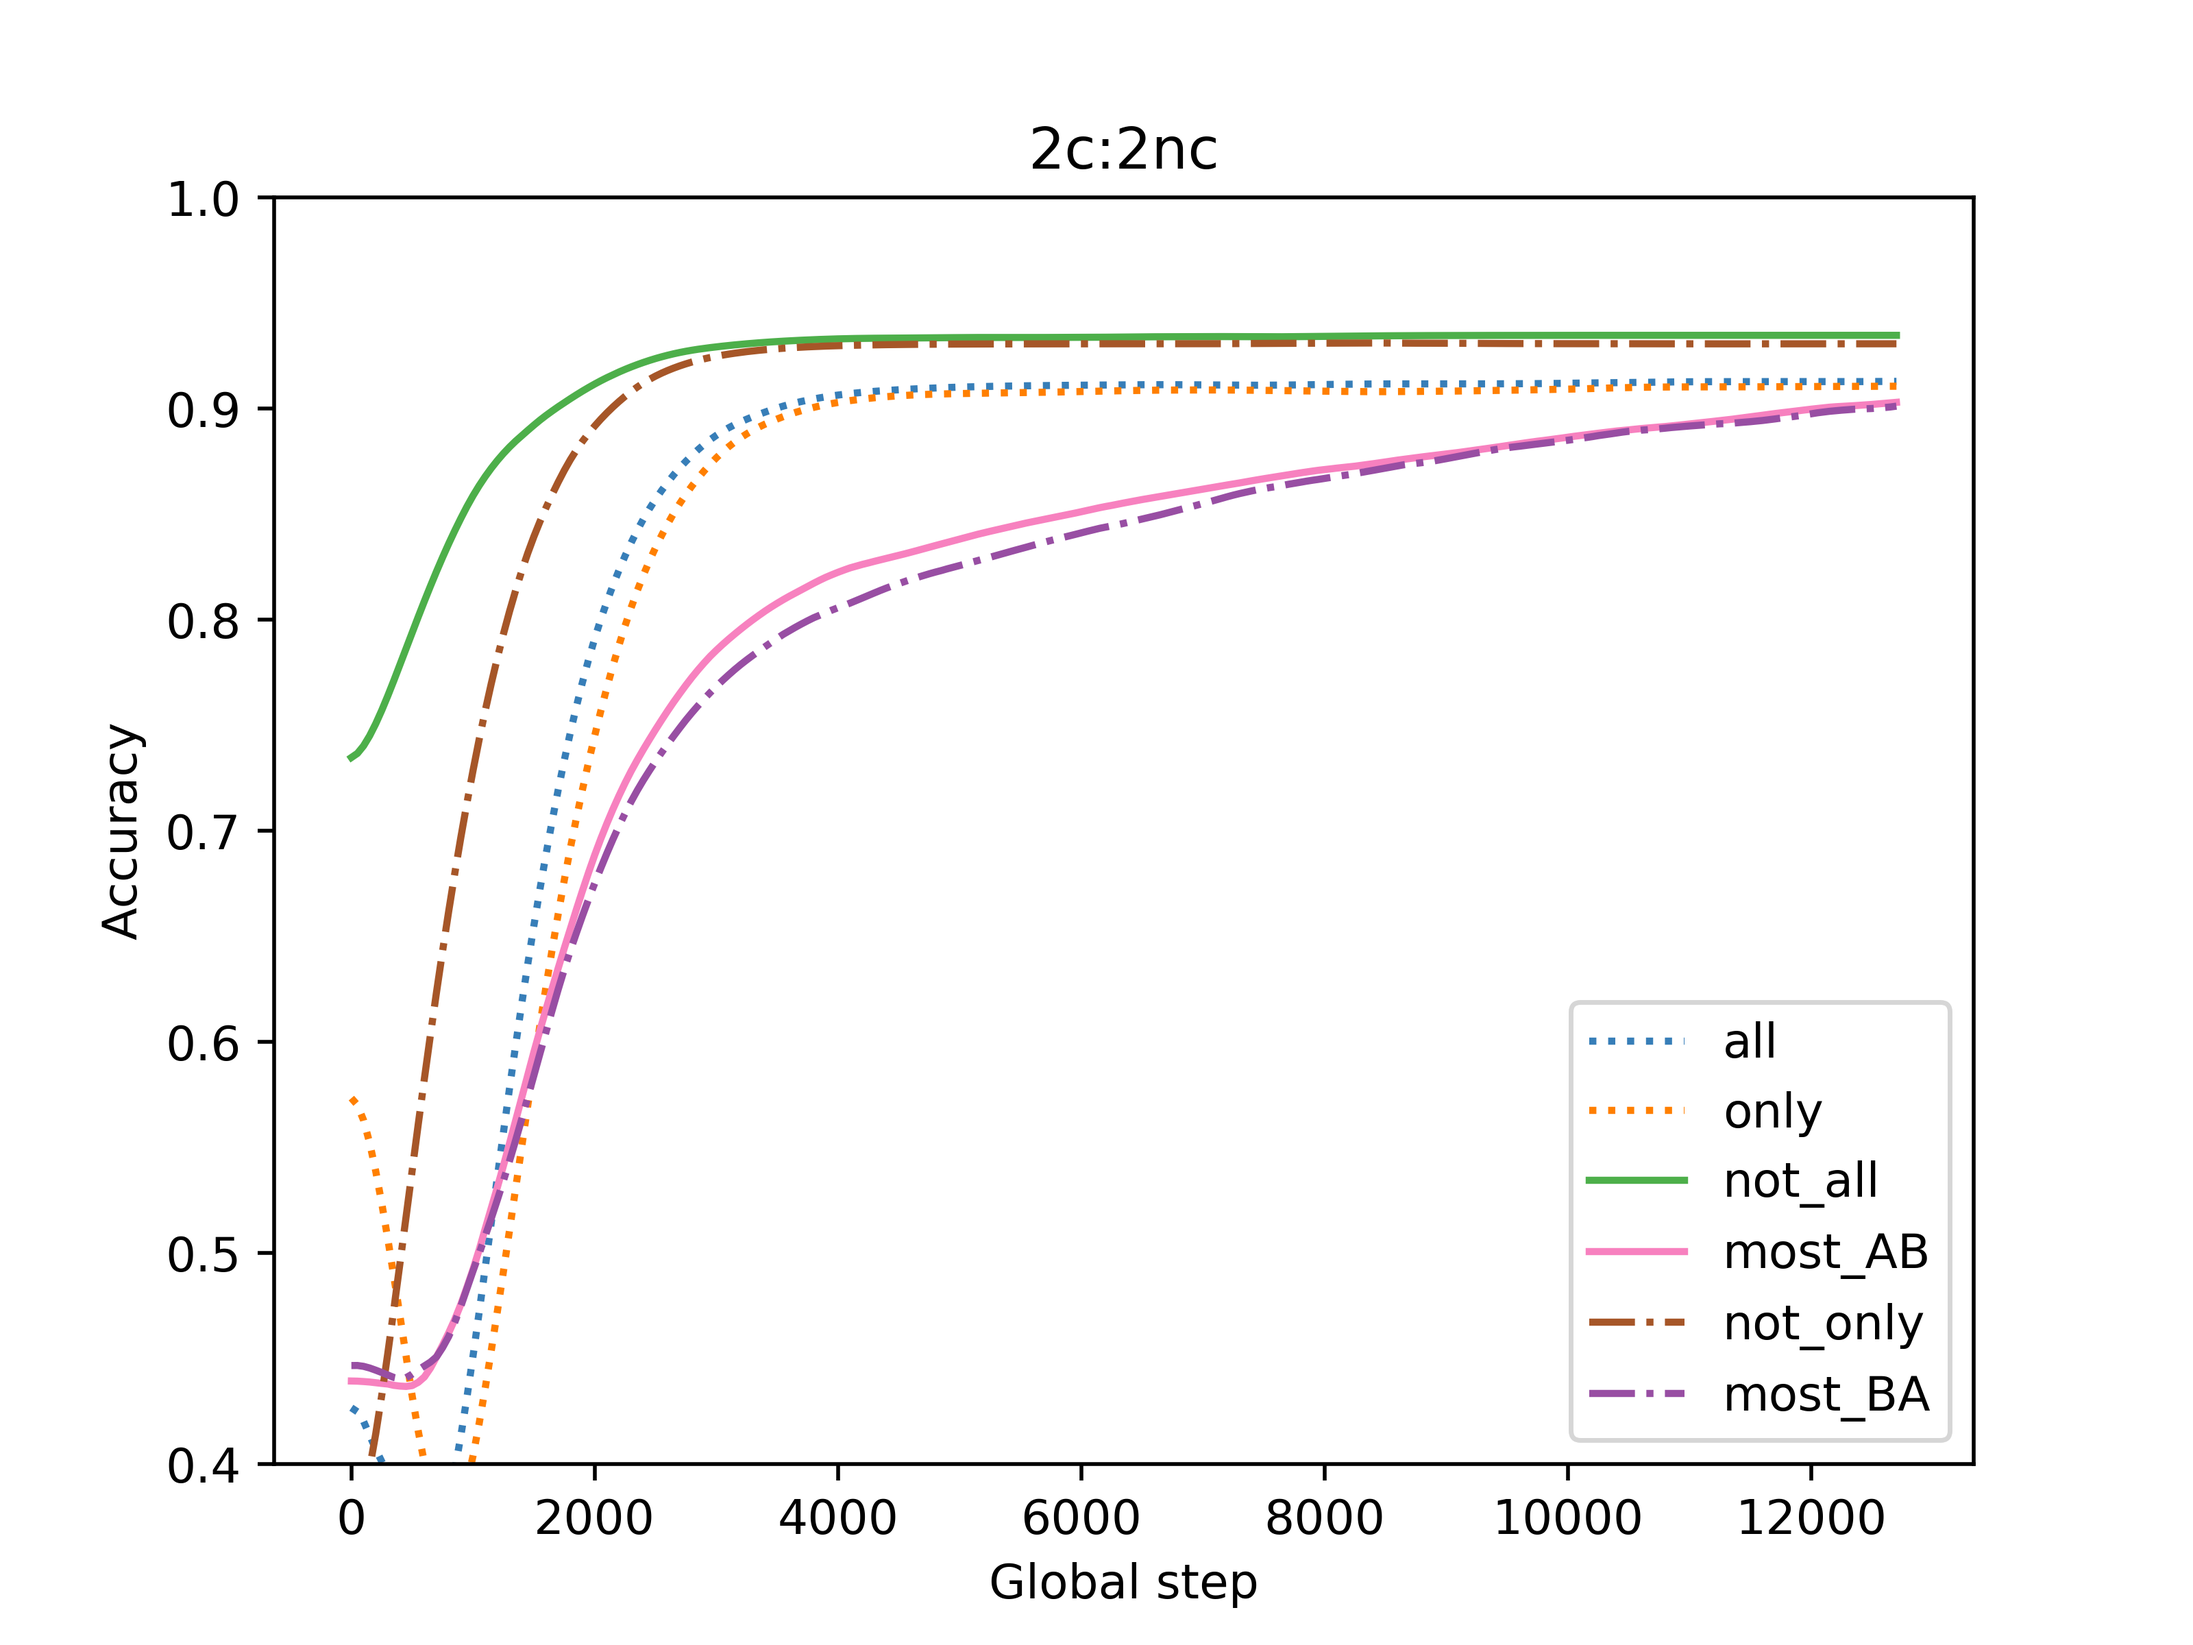
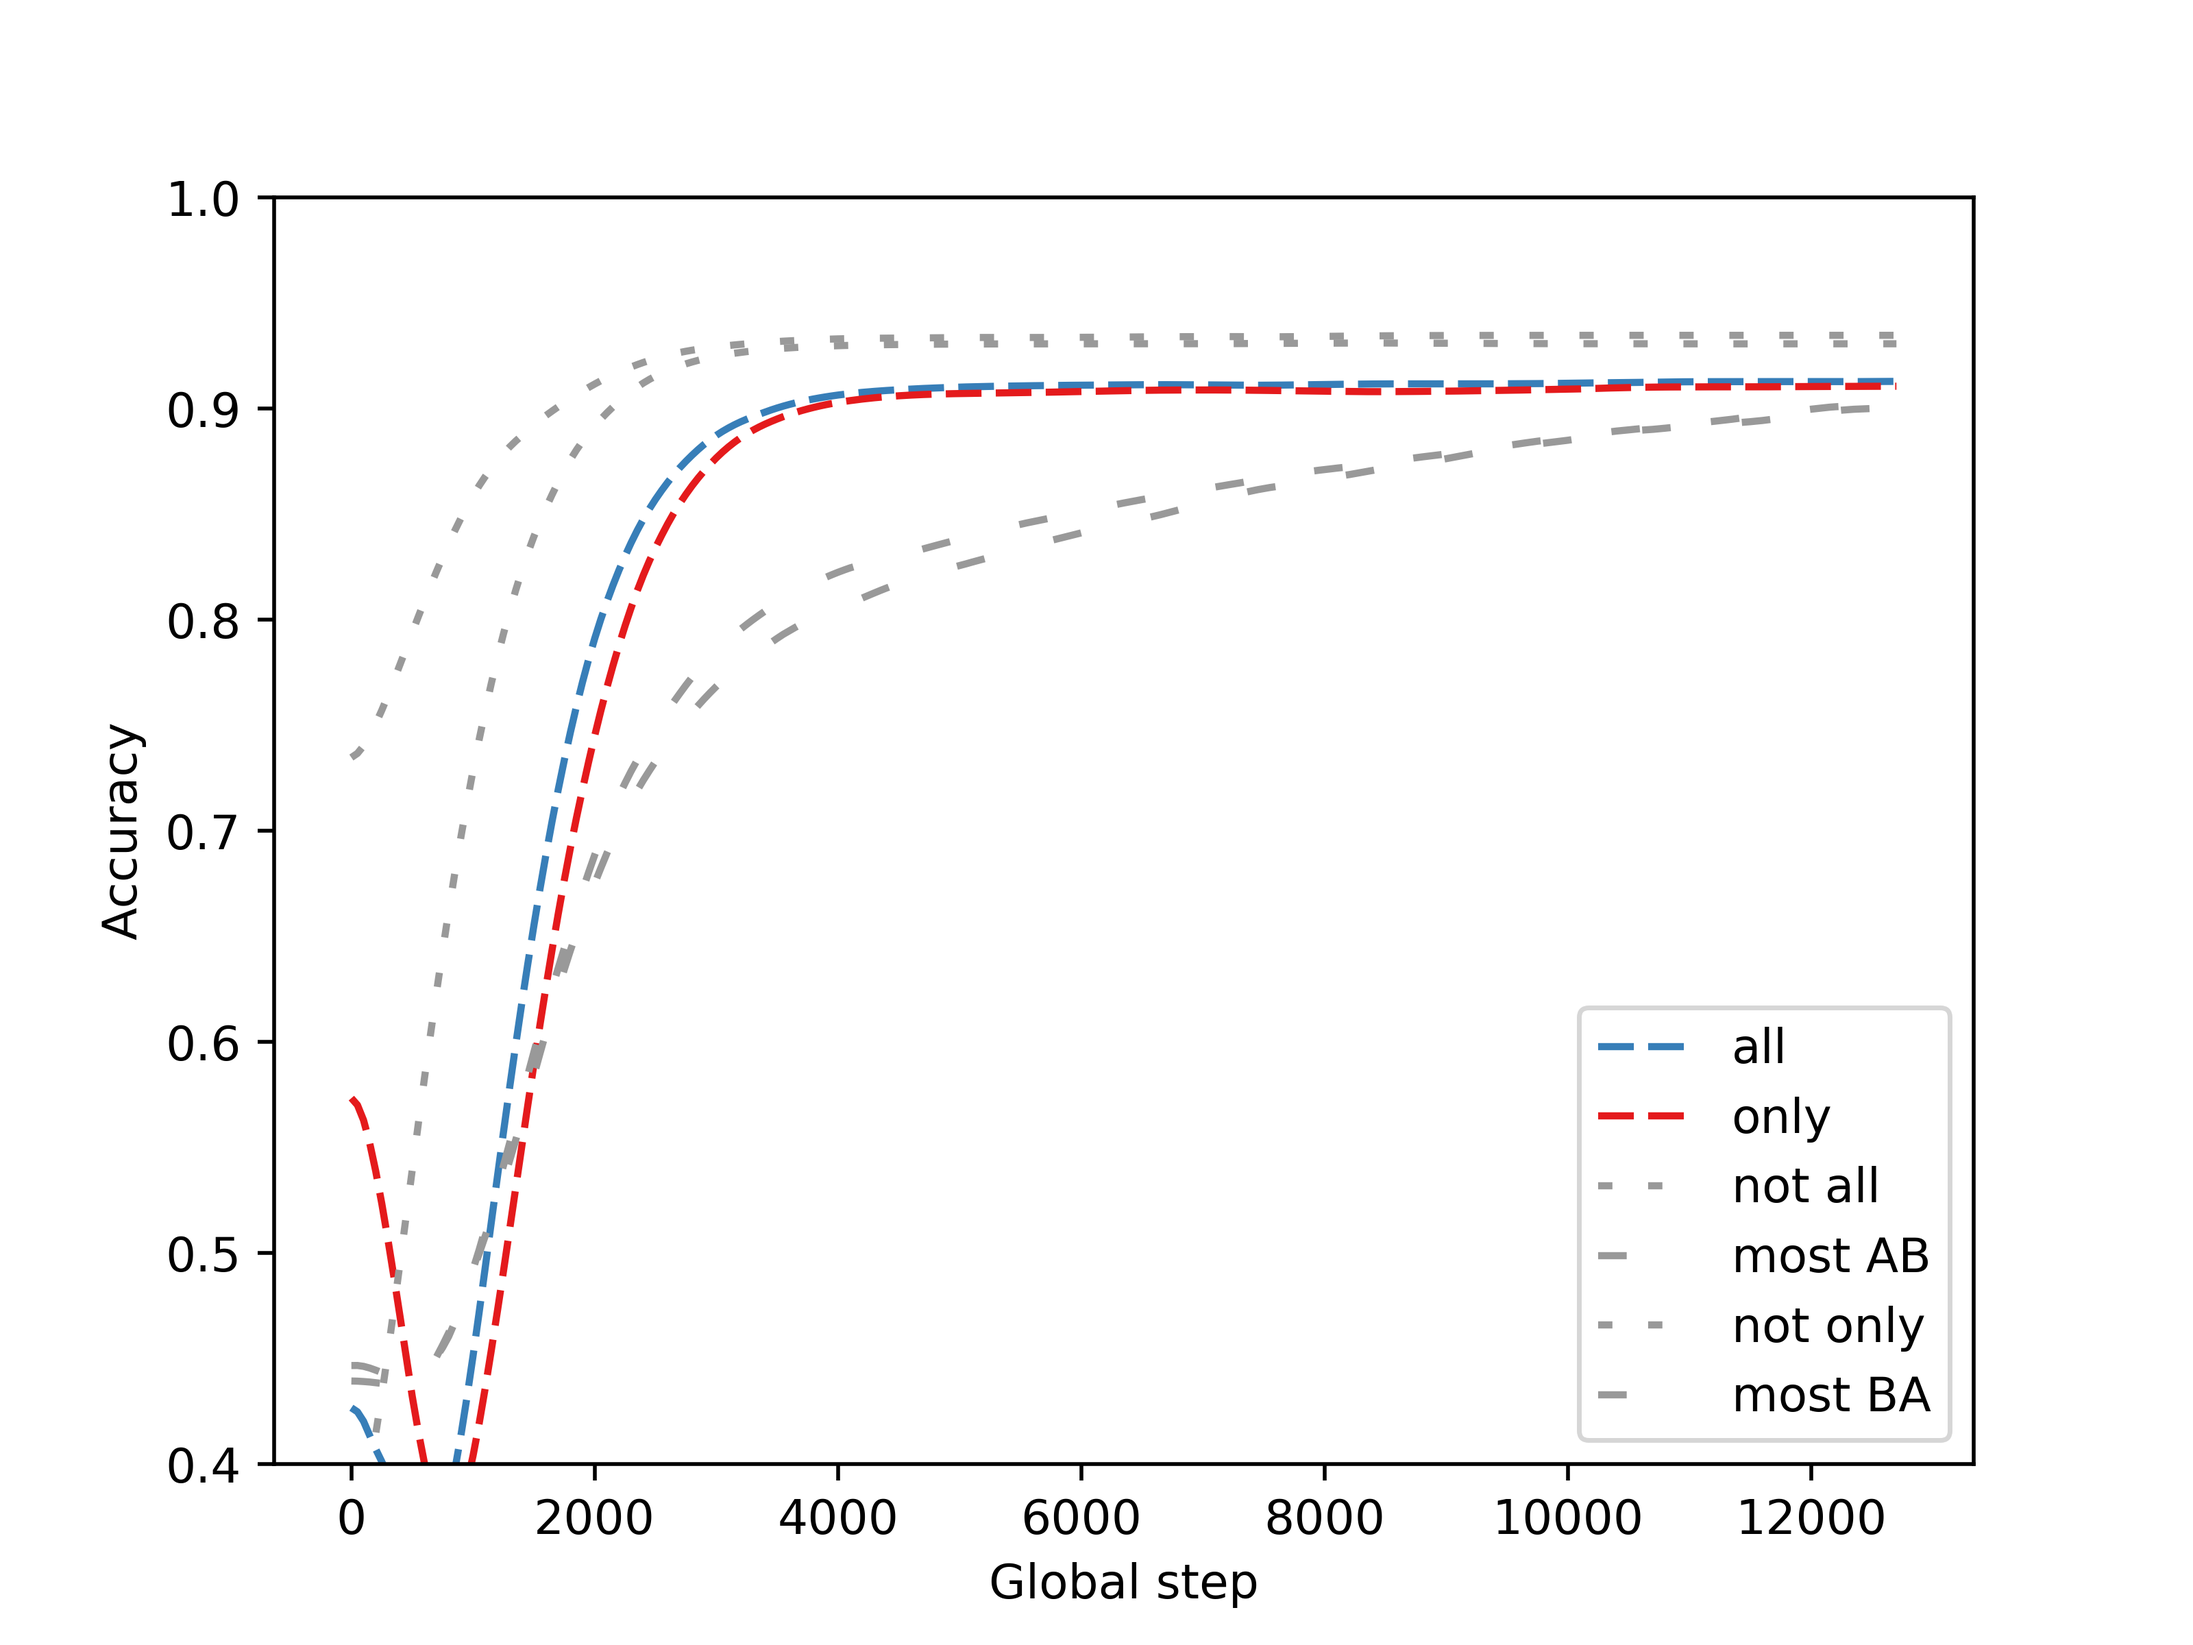
updated plots

diff --git a/analysis.py b/analysis.py
@@ -24,9 +24,36 @@ from matplotlib import pyplot as plt
 import util
 import argparse
 
-# COLORS = ["blue", "red", "green", "brown", "purple", "orange"]
+# 1-5, specify manually
+run = 1
+
 COLORS = ["#377eb8", "#ff7f00", "#4daf4a", "#f781bf", "#a65628", "#984ea3", "#999999", "#e41a1c", "#dede00"]
-linestyles = ["-", "-.", "--", ":"]
+
+dash_map = {
+    "all": (5, 2),
+    "only": (5, 2),
+    "not_all": (2, 5),
+    "not_only": (2, 5),
+    "most_AB": (4, 10),
+    "most_BA": (4, 10),
+    "most_not_AB": (3, 3, 2, 2),
+    "most_not_BA": (3, 3, 2, 2),
+    "exactly_half_AB": (5, 2, 20, 2),
+    "exactly_half_BA": (5, 2, 20, 2),
+}
+
+color_map = {
+    "all": "#377eb8",
+    "only": "#e41a1c",
+    "not_all": "#999999",
+    "not_only": "#999999",
+    "most_AB": "#999999",
+    "most_BA": "#999999",
+    "most_not_AB": "#999999",
+    "most_not_BA": "#999999",
+    "exactly_half_AB": "#999999",
+    "exactly_half_BA": "#999999",
+}
 
 # Conservative quantifiers
 quants_c = ["all", "not_all", "most_AB", "most_not_AB", "exactly_half_AB"]
@@ -67,23 +94,23 @@ def experiment_analysis(path, quants, path_tosave, title, trials=range(30), plot
 
 
 def experiment_one_a_30k_analysis():
-    experiment_analysis("results/30k/exp-1-a/run_3", ["all", "only", "not_all", "most_AB", "most_not_AB", "exactly_half_AB"], "plots_training/30k/run_3/run_3.4c_0nc_30k.png", "4c:0nc")
+    experiment_analysis("results/30k/exp-1-a/run_{}".format(run), ["all", "only", "not_all", "most_AB", "most_not_AB", "exactly_half_AB"], "plots_training/30k/run_{0}/run_{0}.4c_0nc_30k.png".format(run), "4c:0nc")
 
 
 def experiment_one_b_30k_analysis():
-    experiment_analysis("results/30k/exp-1-b/run_3", ["all", "only", "not_all", "most_AB", "most_not_AB", "not_only"], "plots_training/30k/run_3/run_3.3c_1nc_30k.png", "3c:1nc")
+    experiment_analysis("results/30k/exp-1-b/run_{}".format(run), ["all", "only", "not_all", "most_AB", "most_not_AB", "not_only"], "plots_training/30k/run_{0}/run_{0}.3c_1nc_30k.png".format(run), "3c:1nc")
 
 
 def experiment_one_c_30k_analysis():
-    experiment_analysis("results/30k/exp-1-c/run_2", ["all", "only", "not_all", "most_AB", "not_only", "most_BA"], "plots_training/30k/run_2/run_2.2c_2nc_30k.png", "2c:2nc")
+    experiment_analysis("results/30k/exp-1-c/run_{}".format(run), ["all", "only", "not_all", "most_AB", "not_only", "most_BA"], "plots_training/30k/run_{0}/run_{0}.2c_2nc_30k.png".format(run), "2c:2nc")
 
 
 def experiment_one_d_30k_analysis():
-    experiment_analysis("results/30k/exp-1-d/run_2", ["all", "only", "not_all", "not_only", "most_BA", "most_not_BA"], "plots_training/30k/run_2/run_2.1c_3nc_30k.png", "1c:3nc")
+    experiment_analysis("results/30k/exp-1-d/run_{}".format(run), ["all", "only", "not_all", "not_only", "most_BA", "most_not_BA"], "plots_training/30k/run_{0}/run_{0}.1c_3nc_30k.png".format(run), "1c:3nc")
 
 
 def experiment_one_e_30k_analysis():
-    experiment_analysis("results/30k/exp-1-e/run_2", ["all", "only", "not_only", "most_BA", "most_not_BA", "exactly_half_BA"], "plots_training/30k/run_2/run_2.0c_4nc_30k.png", "0c:4nc")
+    experiment_analysis("results/30k/exp-1-e/run_{}".format(run), ["all", "only", "not_only", "most_BA", "most_not_BA", "exactly_half_BA"], "plots_training/30k/run_{0}/run_{0}.0c_4nc_30k.png".format(run), "0c:4nc")
 
 
 def remove_bad_trials(data, threshold=0.60):
@@ -235,35 +262,21 @@ def make_plot(data, quants, path_tosave, title, ylim=None, threshold=0.95):
     longest_x = get_max_steps(data)
     for idx in range(len(quants)):
 
-        # C style
-        if quants[idx] in quants_c[1:]:
-            lines = "-"
-            color = COLORS[idx]
-        # NC style
-        if quants[idx] in quants_nc[1:]:
-            lines = "-."
-            color = COLORS[idx]
-        # Test style
-        if quants[idx] == "all":
-            lines = ":"
-            color = "#377eb8"
-        if quants[idx] == "only":
-            lines = ":"
-            color = "#ff7f00"
-
         plt.plot(longest_x,
                  smooth_data(medians_by_quant[idx]),
-                 color,
-                 label=quants[idx],
-                 linewidth=1.5,
-                 linestyle=lines)
+                 color=color_map[quants[idx]],
+                 label=quants[idx].replace("_", " "),
+                 # linewidth=1.5,
+                 linestyle="--",
+                 dashes=dash_map[quants[idx]],
+                 )
 
     # max_x = max([len(ls) for ls in medians_by_quant])
     # plt.plot(longest_x, [threshold for _ in range(max_x)],
     #          linestyle="dashed", color="#4daf4a")
     if ylim:
         plt.ylim(ylim)
-    plt.title(title)
+    # plt.title(title)
     plt.legend(loc=4)
     plt.xlabel("Global step")
     plt.ylabel("Accuracy")
